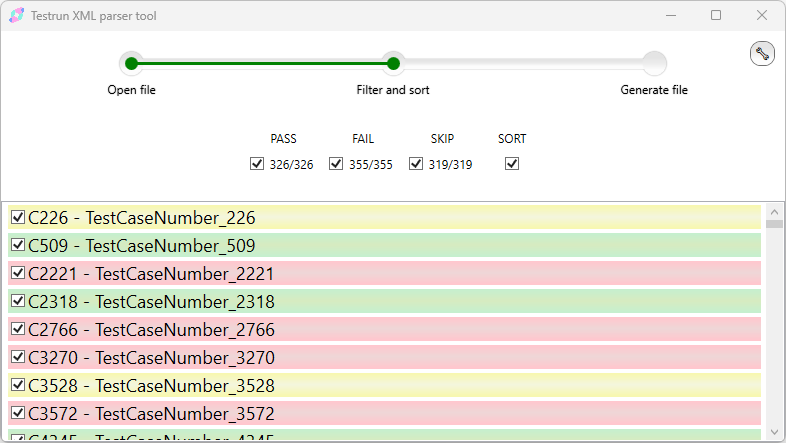
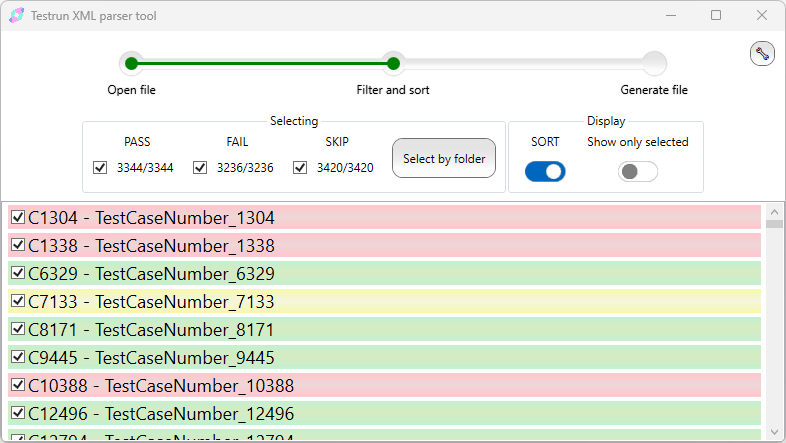
Update readme.md

diff --git a/README.md b/README.md
@@ -23,10 +23,17 @@ Open file dialog window will be open immediately after launching the application
    <img src="/assets/screenshots/Step2.png" alt="Step2 screenshot" width="650" align="center" >
 </p>
 <p>
-You can select test case results by their status (PASS, FAIL, SKIP) and enable/disable SORT<b>*</b> by test case number without prefix letter.
+You can select test case results by their status (PASS, FAIL, SKIP) or use folder with screenshots. File name screenshot should contain test case number as prefix name (ex.: C1304 test case will be selected for file C1304_123456.png).
 </p>
 <p>
-<b>*</b> - If SORT isn't selected, test cases will be sort such as original xml file. 
+Display section has two options: 
+</p>
+
+- SORT: if option isn't selected, test cases will be sorted as in original xml file.
+- Show only selected. 
+
+<p>
+These two options are saved in user app.config file.  
 </p>
 
 ## Step 3 - Generate file
